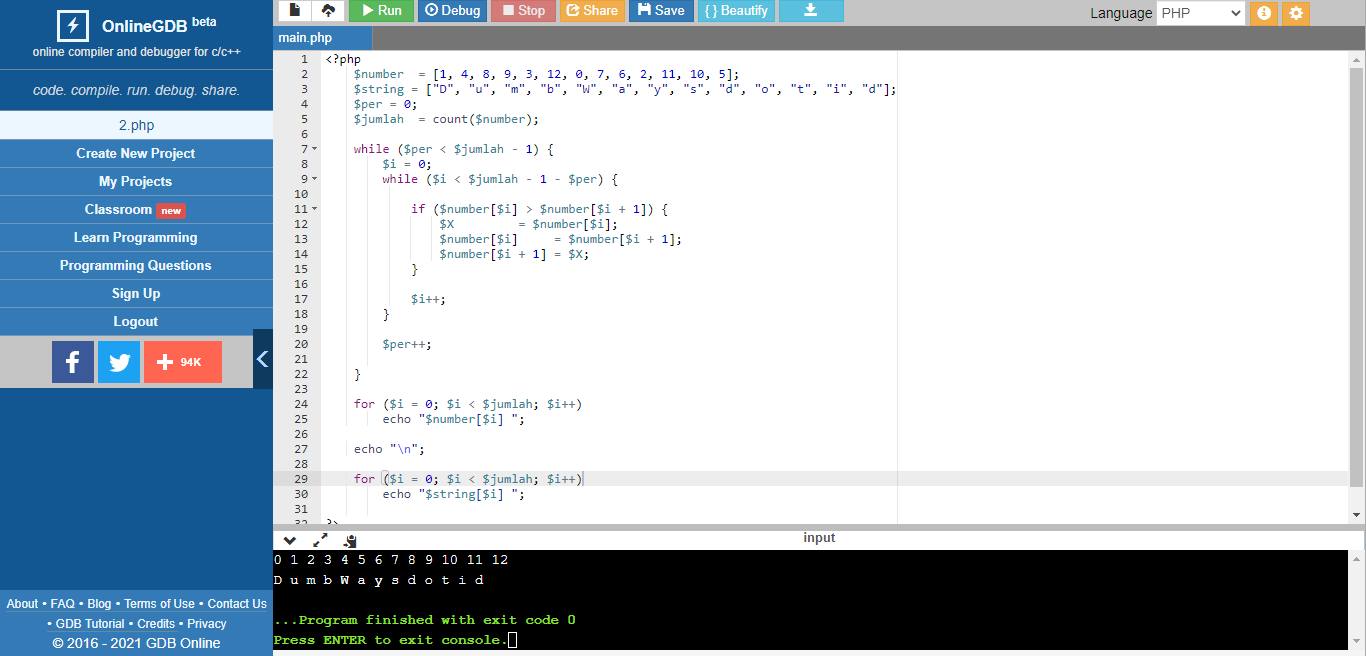
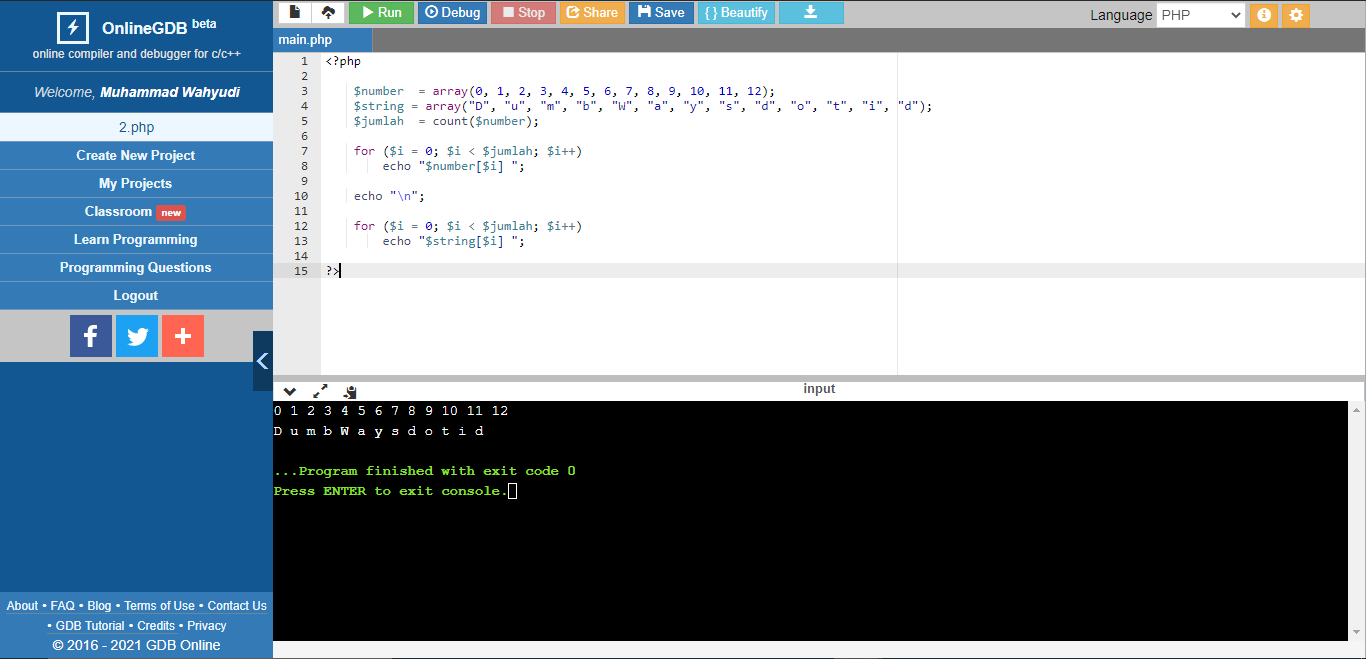
gambar 2 dan 3

diff --git a/2.php b/2.php
@@ -1,22 +1,9 @@
 <?php
-    $number  = array(1, 4, 8, 9, 3, 12, 0, 7, 6, 2, 11, 10, 5);
+
+    $number  = array(0, 1, 2, 3, 4, 5, 6, 7, 8, 9, 10, 11, 12);
     $string = array("D", "u", "m", "b", "W", "a", "y", "s", "d", "o", "t", "i", "d");
     $jumlah  = count($number);
 
-    $K = 0;
-
-    while ($K < $jumlah - 1) {
-        $i = 0;
-        while ($i < $jumlah - 1 - $K) {
-            if ($number[$i] > $number[$i + 1]) {
-                $X         = $number[$i];
-                $number[$i]     = $number[$i + 1];
-                $number[$i + 1] = $X;
-            }
-            $i++;
-        }
-        $K++;
-    }
     for ($i = 0; $i < $jumlah; $i++)
         echo "$number[$i] ";
 
